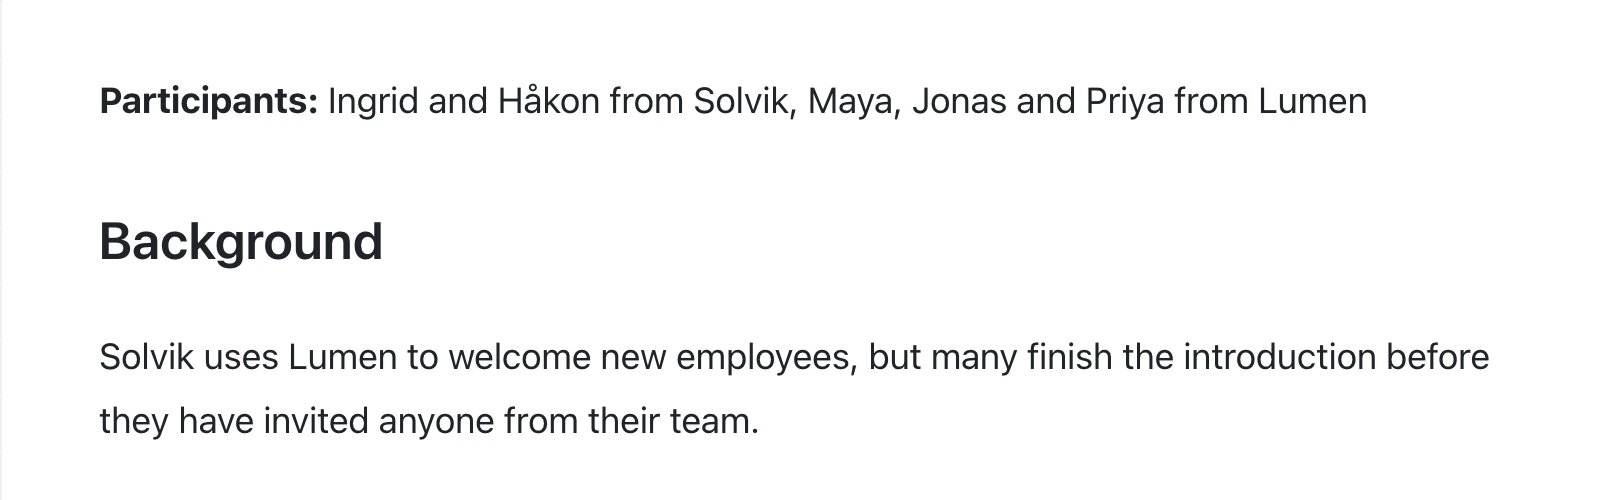
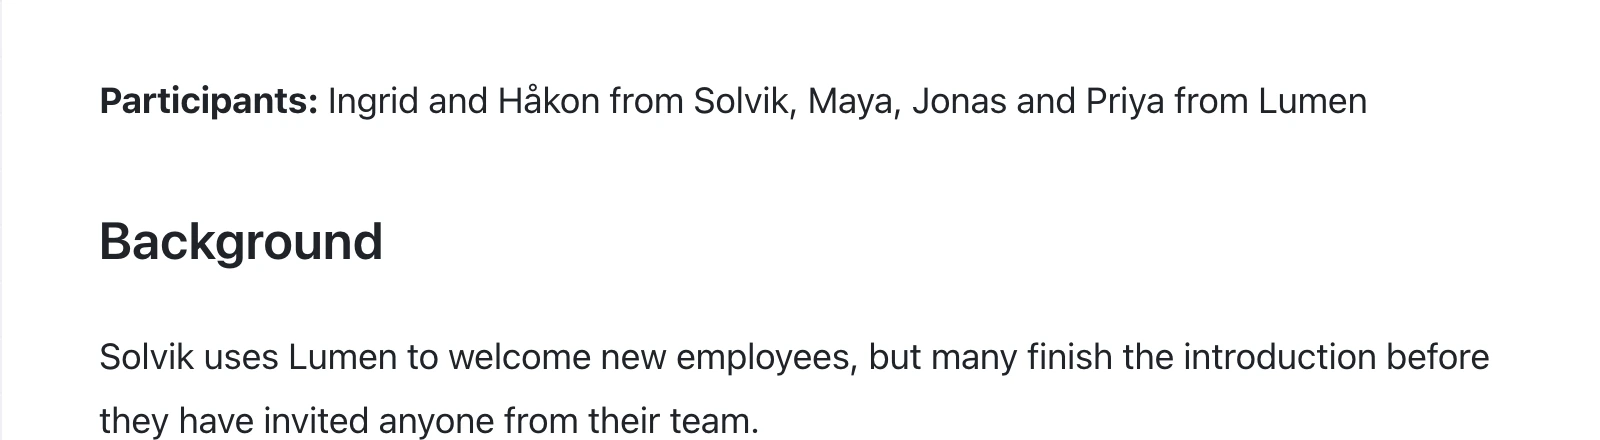
docs(site): add language toggle close-up
Show the auto-translate switch and NO/EN buttons as a labeled close-up
above the before/after pair, and trim the translation crops so they
end cleanly.

diff --git a/site/index.html b/site/index.html
@@ -93,9 +93,10 @@
 
 <section class="band" id="translate" aria-labelledby="translate-h"><div class="wrap look">
 <div class="look-text reveal"><p class="eyebrow">Translation</p><h2 id="translate-h">Read it in your language.</h2><p>Flip a switch and any note reads in Norwegian or English. Your original stays untouched.</p></div>
+<div class="tool tool-wide reveal" aria-label="The note's language controls"><span class="tool-label" style="--pos:61.3%">Auto-translate</span><img src="assets/screenshots/translate-controls-light.webp" alt="Close-up of a note's language controls: the Auto-translate switch, switched on, and the NO and EN buttons with EN selected" width="400" height="96" loading="lazy" decoding="async"><span class="tool-label below" style="--pos:80.6%">Switch language</span></div>
 <div class="pair ba">
-<figure class="ba-item reveal"><figcaption><span>Before</span> Norwegian original</figcaption><div class="frame"><img src="assets/screenshots/translate-toggle-no-light.webp" alt="Note header with the auto-translate switch on and NO selected, title Møtenotater: Lumen-workshop med Solvik-teamet i Bergen" width="1600" height="152" loading="lazy" decoding="async"><img src="assets/screenshots/translate-no-light.webp" alt="The note body in Norwegian: Deltakere, Bakgrunn, Hovedpunkter" width="1600" height="500" loading="lazy" decoding="async"></div></figure>
-<figure class="ba-item reveal"><figcaption><span class="on">After</span> Press EN, read it in English</figcaption><div class="frame"><img src="assets/screenshots/translate-toggle-en-light.webp" alt="The same note header with EN selected, title Meeting notes: Lumen workshop with Solvik team in Bergen" width="1600" height="152" loading="lazy" decoding="async"><img src="assets/screenshots/translate-en-light.webp" alt="The same note body in English: Participants, Background, Main points" width="1600" height="500" loading="lazy" decoding="async"></div></figure>
+<figure class="ba-item reveal"><figcaption><span>Before</span> Norwegian original</figcaption><div class="frame"><img src="assets/screenshots/translate-toggle-no-light.webp" alt="Note header with the auto-translate switch on and NO selected, title Møtenotater: Lumen-workshop med Solvik-teamet i Bergen" width="1600" height="152" loading="lazy" decoding="async"><img src="assets/screenshots/translate-no-light.webp" alt="The note body in Norwegian: Deltakere, Bakgrunn, Hovedpunkter" width="1600" height="440" loading="lazy" decoding="async"></div></figure>
+<figure class="ba-item reveal"><figcaption><span class="on">After</span> Press EN, read it in English</figcaption><div class="frame"><img src="assets/screenshots/translate-toggle-en-light.webp" alt="The same note header with EN selected, title Meeting notes: Lumen workshop with Solvik team in Bergen" width="1600" height="152" loading="lazy" decoding="async"><img src="assets/screenshots/translate-en-light.webp" alt="The same note body in English: Participants, Background, Main points" width="1600" height="440" loading="lazy" decoding="async"></div></figure>
 </div>
 <ul class="ticks inline reveal"><li>Code, links and formatting stay intact</li><li>Export notes to 8 languages</li><li>Runs on your Mac</li></ul>
 </div></section>

diff --git a/site/styles.css b/site/styles.css
@@ -267,3 +267,7 @@ h1,h2,h3{text-wrap:balance;margin:0;font-family:var(--display);font-weight:600;c
 .frame{background:#fff;border-radius:12px;box-shadow:var(--shot);overflow:hidden}
 .ba-item .frame img{border-radius:0;box-shadow:none}
 .ba-item .frame img+img{border-top:1px solid var(--line)}
+.tool-wide{max-width:440px;margin:clamp(28px,4vw,44px) auto 0;padding-bottom:38px}
+.tool-wide img{width:100%;height:auto;border-radius:12px;box-shadow:var(--shot);background:#fff}
+.tool-label.below{top:auto;bottom:0}
+.tool-label.below::after{bottom:auto;top:-5px}
